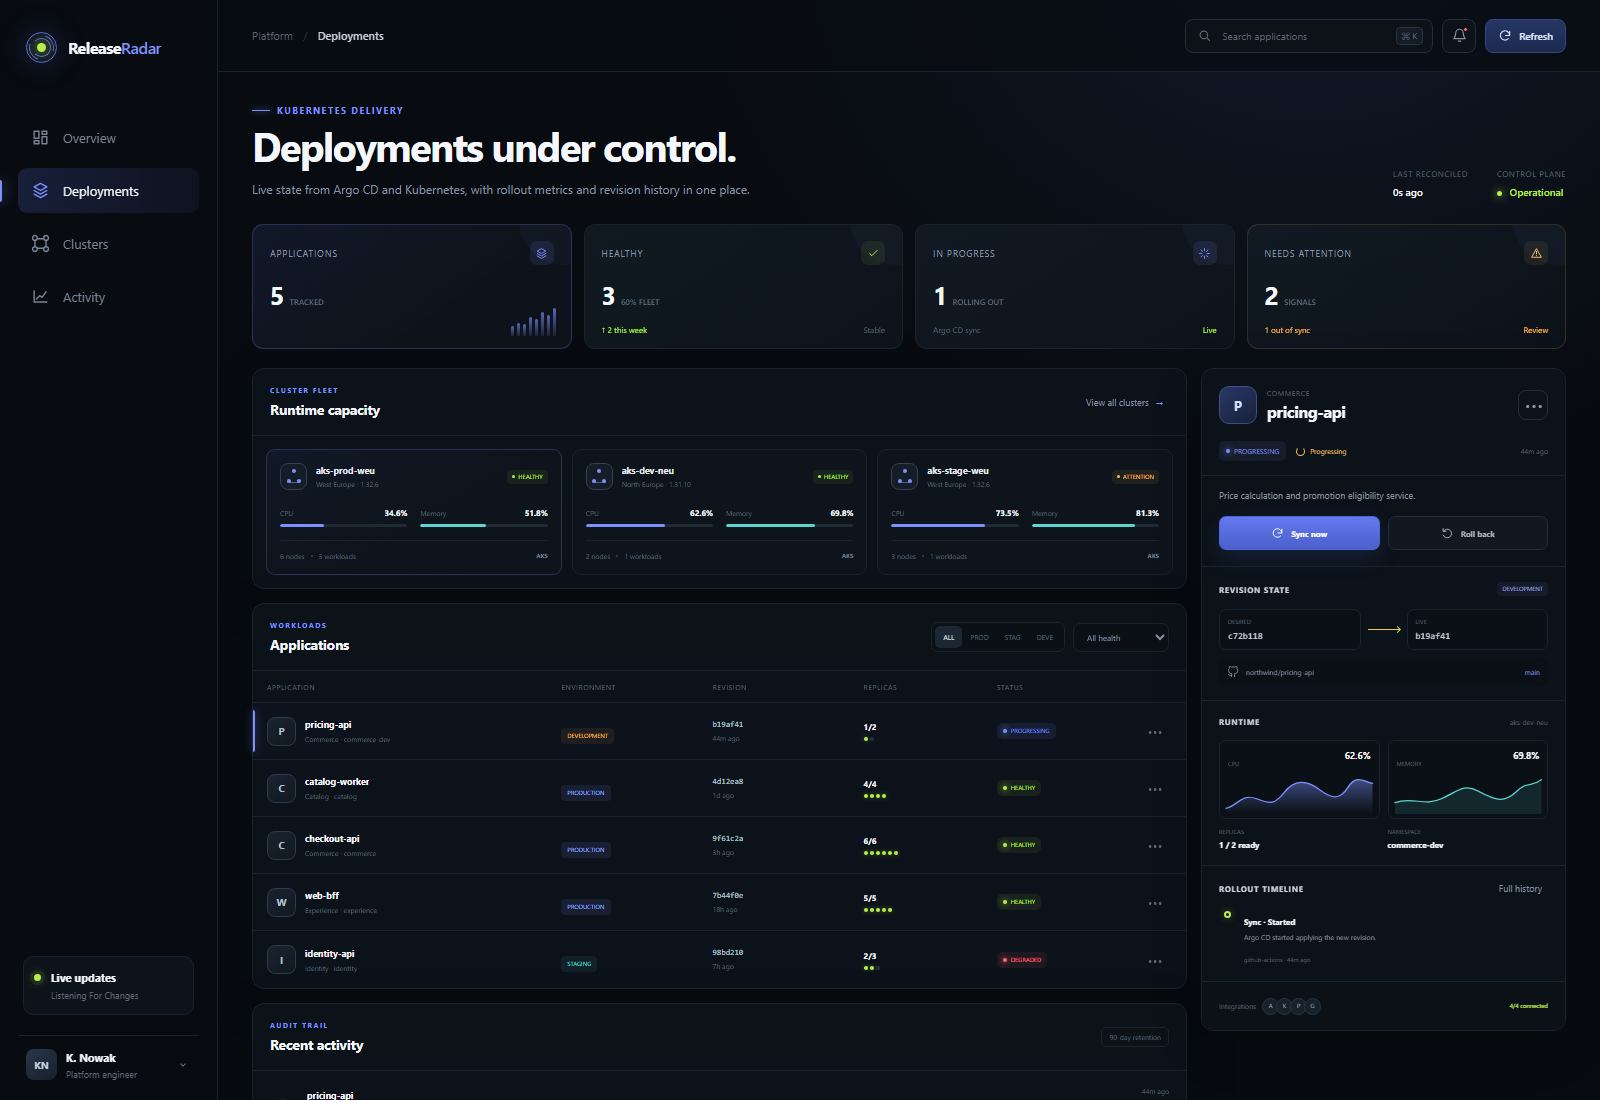
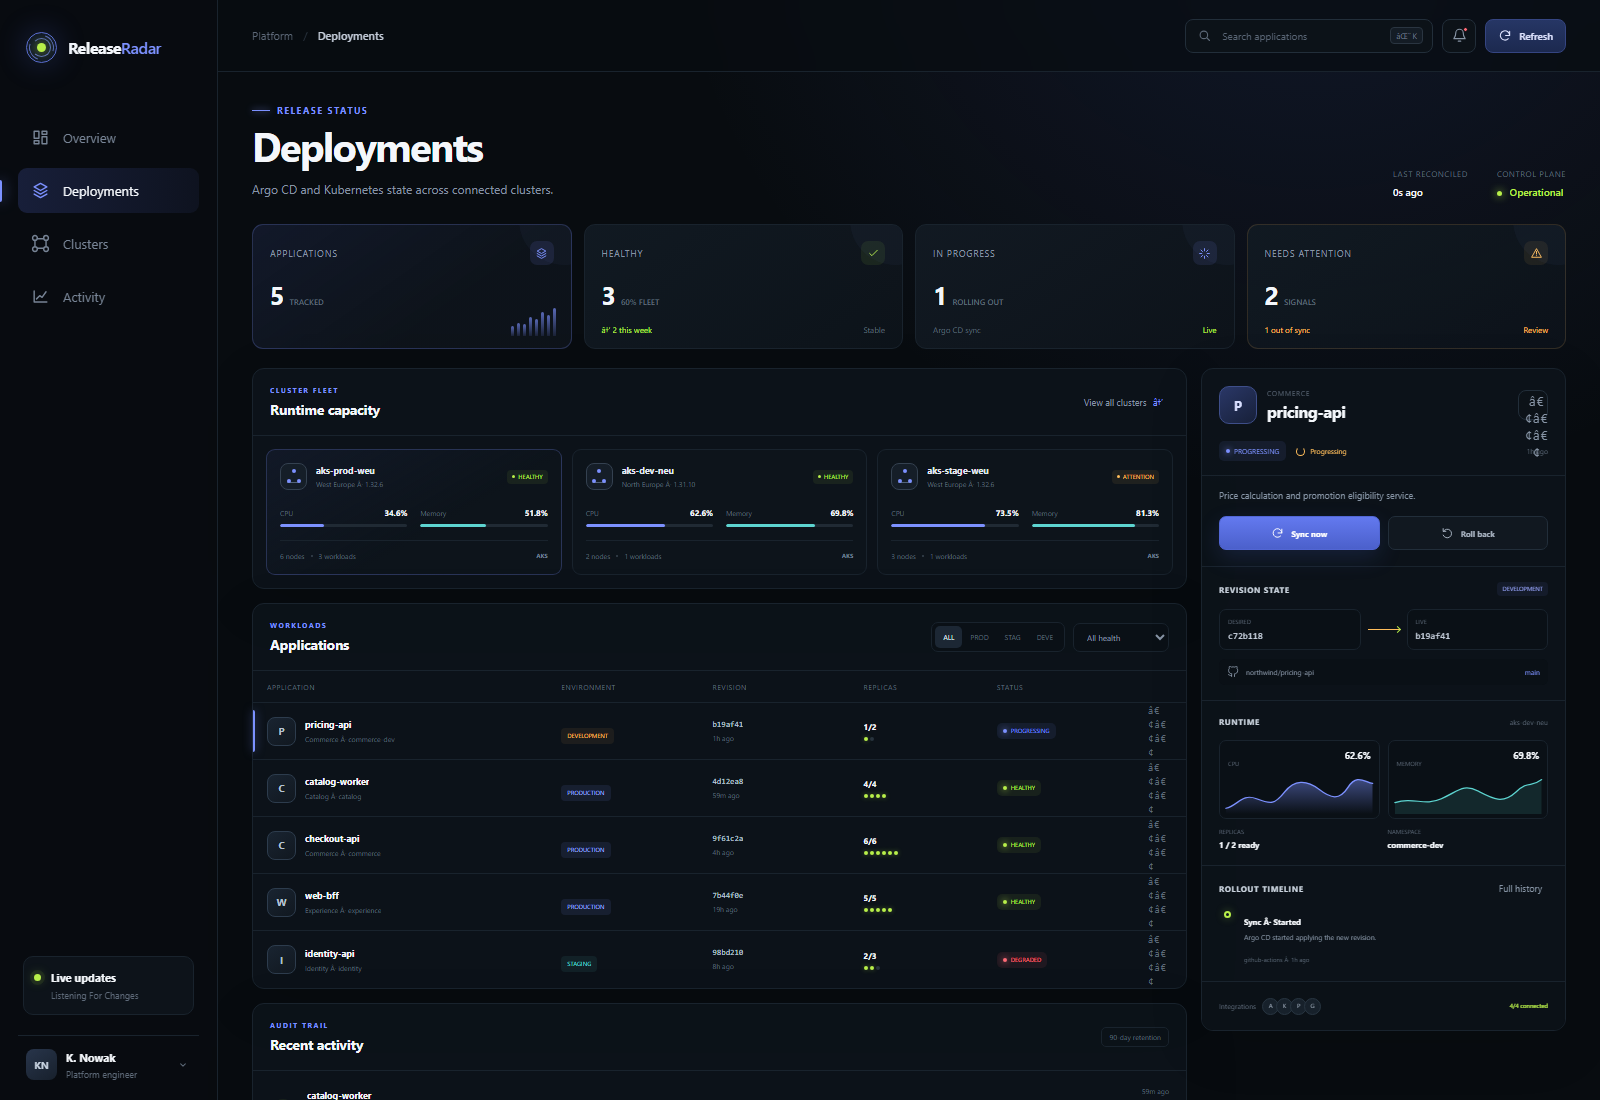
Use a plain deployment heading

diff --git a/frontend/src/app/app.html b/frontend/src/app/app.html
@@ -43,7 +43,7 @@
         <label class="global-search">
           <svg viewBox="0 0 24 24"><circle cx="11" cy="11" r="6"/><path d="m16 16 4 4"/></svg>
           <input #search type="search" placeholder="Search applications" [value]="query()" (input)="query.set(search.value)">
-          <kbd>⌘ K</kbd>
+          <kbd>âŒ˜ K</kbd>
         </label>
         <button class="icon-button" aria-label="Notifications">
           <svg viewBox="0 0 24 24"><path d="M18 8a6 6 0 0 0-12 0c0 7-3 7-3 9h18c0-2-3-2-3-9ZM10 21h4"/></svg><span></span>
@@ -57,12 +57,12 @@
 
     <section class="page-intro">
       <div>
-        <p class="eyebrow"><span></span> Kubernetes delivery</p>
-        <h1>Deployments under control.</h1>
-        <p>Live state from Argo CD and Kubernetes, with rollout metrics and revision history in one place.</p>
+        <p class="eyebrow"><span></span> Release status</p>
+        <h1>Deployments</h1>
+        <p>Argo CD and Kubernetes state across connected clusters.</p>
       </div>
       <div class="intro-meta">
-        <div><span>Last reconciled</span><strong>{{ overview()?.generatedAt ? elapsed(overview()!.generatedAt) : '—' }}</strong></div>
+        <div><span>Last reconciled</span><strong>{{ overview()?.generatedAt ? elapsed(overview()!.generatedAt) : 'â€”' }}</strong></div>
         <div><span>Control plane</span><strong class="success-text"><i></i> Operational</strong></div>
       </div>
     </section>
@@ -70,17 +70,17 @@
     <section class="metric-grid" aria-label="Deployment summary">
       <article class="metric-card primary-metric">
         <div class="metric-top"><span>Applications</span><i class="metric-icon"><svg viewBox="0 0 24 24"><path d="m12 3 8 4.5-8 4.5-8-4.5L12 3Zm-8 9 8 4.5 8-4.5M4 16.5l8 4.5 8-4.5"/></svg></i></div>
-        <div class="metric-value">{{ overview()?.applications ?? '—' }} <small>tracked</small></div>
+        <div class="metric-value">{{ overview()?.applications ?? 'â€”' }} <small>tracked</small></div>
         <div class="mini-bars"><i style="height:35%"></i><i style="height:48%"></i><i style="height:43%"></i><i style="height:70%"></i><i style="height:62%"></i><i style="height:88%"></i><i style="height:76%"></i><i style="height:100%"></i></div>
       </article>
       <article class="metric-card">
         <div class="metric-top"><span>Healthy</span><i class="metric-icon lime"><svg viewBox="0 0 24 24"><path d="m5 12 4 4L19 6"/></svg></i></div>
-        <div class="metric-value">{{ overview()?.healthy ?? '—' }} <small>{{ healthyPercent() }}% fleet</small></div>
-        <div class="metric-foot positive"><span>↑ 2 this week</span><em>Stable</em></div>
+        <div class="metric-value">{{ overview()?.healthy ?? 'â€”' }} <small>{{ healthyPercent() }}% fleet</small></div>
+        <div class="metric-foot positive"><span>â†‘ 2 this week</span><em>Stable</em></div>
       </article>
       <article class="metric-card">
         <div class="metric-top"><span>In progress</span><i class="metric-icon blue"><svg viewBox="0 0 24 24"><path d="M12 3v4m0 10v4M3 12h4m10 0h4M5.6 5.6l2.8 2.8m7.2 7.2 2.8 2.8m0-12.8-2.8 2.8m-7.2 7.2-2.8 2.8"/></svg></i></div>
-        <div class="metric-value">{{ overview()?.progressing ?? '—' }} <small>rolling out</small></div>
+        <div class="metric-value">{{ overview()?.progressing ?? 'â€”' }} <small>rolling out</small></div>
         <div class="metric-foot"><span>Argo CD sync</span><em class="live-label">Live</em></div>
       </article>
       <article class="metric-card warning-card">
@@ -95,14 +95,14 @@
         <section class="panel fleet-panel">
           <header class="panel-header">
             <div><p class="section-kicker">Cluster fleet</p><h2>Runtime capacity</h2></div>
-            <button class="text-button">View all clusters <span>→</span></button>
+            <button class="text-button">View all clusters <span>â†’</span></button>
           </header>
           <div class="cluster-grid">
             @for (cluster of overview()?.clusters ?? []; track cluster.name; let index = $index) {
               <article class="cluster-card" [class.featured]="index === 0">
                 <div class="cluster-head">
                   <span class="cluster-symbol"><i></i><i></i><i></i></span>
-                  <div><strong>{{ cluster.name }}</strong><small>{{ cluster.region }} · {{ cluster.version }}</small></div>
+                  <div><strong>{{ cluster.name }}</strong><small>{{ cluster.region }} Â· {{ cluster.version }}</small></div>
                   <span class="state-pill" [class.attention]="cluster.health !== 'Healthy'"><i></i>{{ cluster.health }}</span>
                 </div>
                 <div class="cluster-stats">
@@ -141,13 +141,13 @@
               <button class="table-row application-row" [class.selected]="selected()?.id === application.id" (click)="loadApplication(application.name)">
                 <span class="app-cell">
                   <i class="app-glyph" [attr.data-letter]="application.name.charAt(0).toUpperCase()"></i>
-                  <span><strong>{{ application.name }}</strong><small>{{ application.team }} · {{ application.namespace }}</small></span>
+                  <span><strong>{{ application.name }}</strong><small>{{ application.team }} Â· {{ application.namespace }}</small></span>
                 </span>
                 <span><em class="environment-tag" [class]="application.environment">{{ application.environment }}</em></span>
                 <span class="revision-cell"><code>{{ shortRevision(application.liveRevision) }}</code><small>{{ elapsed(application.lastDeploymentAt) }}</small></span>
                 <span class="replica-cell"><strong>{{ application.readyReplicas }}/{{ application.desiredReplicas }}</strong><span class="replica-dots">@for (dot of [].constructor(application.desiredReplicas); track $index) {<i [class.ready]="$index < application.readyReplicas"></i>}</span></span>
                 <span><em class="health-pill" [class]="statusClass(application.health)"><i></i>{{ application.health }}</em></span>
-                <span class="row-menu" aria-hidden="true">•••</span>
+                <span class="row-menu" aria-hidden="true">â€¢â€¢â€¢</span>
               </button>
             } @empty {
               <div class="empty-state">No applications match the current filters.</div>
@@ -166,7 +166,7 @@
                 <span class="activity-icon" [class]="statusClass(event.status)">
                   <svg viewBox="0 0 24 24"><path d="m5 12 4 4L19 6"/></svg>
                 </span>
-                <div><strong>{{ event.application }}</strong><p>{{ event.message }}</p><small>{{ event.actor }} · {{ shortRevision(event.revision) }}</small></div>
+                <div><strong>{{ event.application }}</strong><p>{{ event.message }}</p><small>{{ event.actor }} Â· {{ shortRevision(event.revision) }}</small></div>
                 <time>{{ elapsed(event.occurredAt) }}</time>
               </article>
             }
@@ -178,7 +178,7 @@
         @if (selected(); as application) {
           <header class="detail-header">
             <div class="detail-app-title"><i class="app-glyph large" [attr.data-letter]="application.name.charAt(0).toUpperCase()"></i><div><span>{{ application.team }}</span><h2>{{ application.name }}</h2></div></div>
-            <button class="icon-button small" aria-label="More actions">•••</button>
+            <button class="icon-button small" aria-label="More actions">â€¢â€¢â€¢</button>
           </header>
 
           <div class="detail-status-row">
@@ -223,7 +223,7 @@
               @for (event of application.timeline.slice(0, 4); track event.id; let first = $first) {
                 <article [class.current]="first">
                   <i><span></span></i>
-                  <div><strong>{{ event.action }} · {{ event.status }}</strong><p>{{ event.message }}</p><small>{{ event.actor }} · {{ elapsed(event.occurredAt) }}</small></div>
+                  <div><strong>{{ event.action }} Â· {{ event.status }}</strong><p>{{ event.message }}</p><small>{{ event.actor }} Â· {{ elapsed(event.occurredAt) }}</small></div>
                 </article>
               }
             </div>
@@ -245,7 +245,7 @@
 @if (pendingAction(); as pending) {
   <div class="modal-backdrop" (click)="pendingAction.set(null)">
     <section class="confirm-modal" role="dialog" aria-modal="true" (click)="$event.stopPropagation()">
-      <button class="modal-close" (click)="pendingAction.set(null)" aria-label="Close">×</button>
+      <button class="modal-close" (click)="pendingAction.set(null)" aria-label="Close">Ã—</button>
       <span class="modal-icon" [class.rollback]="pending.type === 'rollback'">
         <svg viewBox="0 0 24 24"><path d="M20 11a8 8 0 1 0-2.3 5.7M20 4v7h-7"/></svg>
       </span>
@@ -253,11 +253,11 @@
       <h2>{{ actionLabel(pending.type) }}</h2>
       <p>{{ pending.type === 'sync' ? 'Apply the latest repository revision to' : 'Restore the previous stable revision of' }} <strong>{{ pending.application.name }}</strong> in <strong>{{ pending.application.environment }}</strong>.</p>
       <div class="modal-summary"><span>Current revision</span><code>{{ shortRevision(pending.application.liveRevision) }}</code><span>Cluster</span><strong>{{ pending.application.cluster }}</strong></div>
-      <div class="modal-actions"><button class="secondary-action" (click)="pendingAction.set(null)">Cancel</button><button class="primary-action" [class.danger]="pending.type === 'rollback'" [disabled]="acting()" (click)="confirmAction()">{{ acting() ? 'Working…' : actionLabel(pending.type) }}</button></div>
+      <div class="modal-actions"><button class="secondary-action" (click)="pendingAction.set(null)">Cancel</button><button class="primary-action" [class.danger]="pending.type === 'rollback'" [disabled]="acting()" (click)="confirmAction()">{{ acting() ? 'Workingâ€¦' : actionLabel(pending.type) }}</button></div>
     </section>
   </div>
 }
 
 @if (toast(); as message) {
-  <div class="toast"><span>✓</span>{{ message }}</div>
+  <div class="toast"><span>âœ“</span>{{ message }}</div>
 }

diff --git a/frontend/src/app/app.spec.ts b/frontend/src/app/app.spec.ts
@@ -27,7 +27,7 @@ describe('App', () => {
   });
 
   it('renders the deployment heading', () => {
-    expect(fixture.nativeElement.querySelector('h1').textContent).toContain('Deployments under control');
+    expect(fixture.nativeElement.querySelector('h1').textContent).toBe('Deployments');
   });
 
   it('starts with all environments visible', () => {
